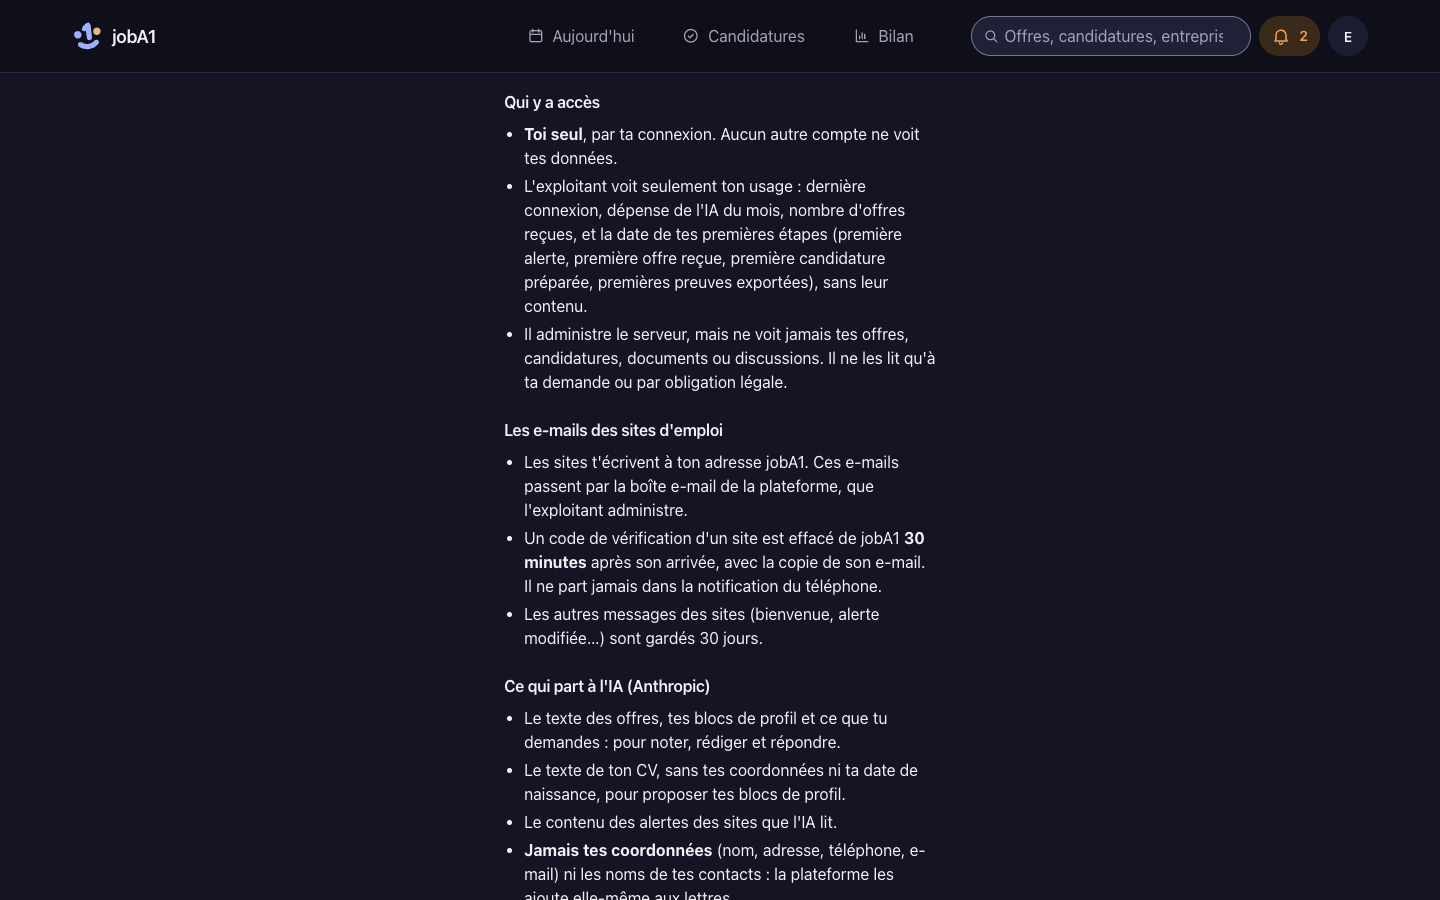
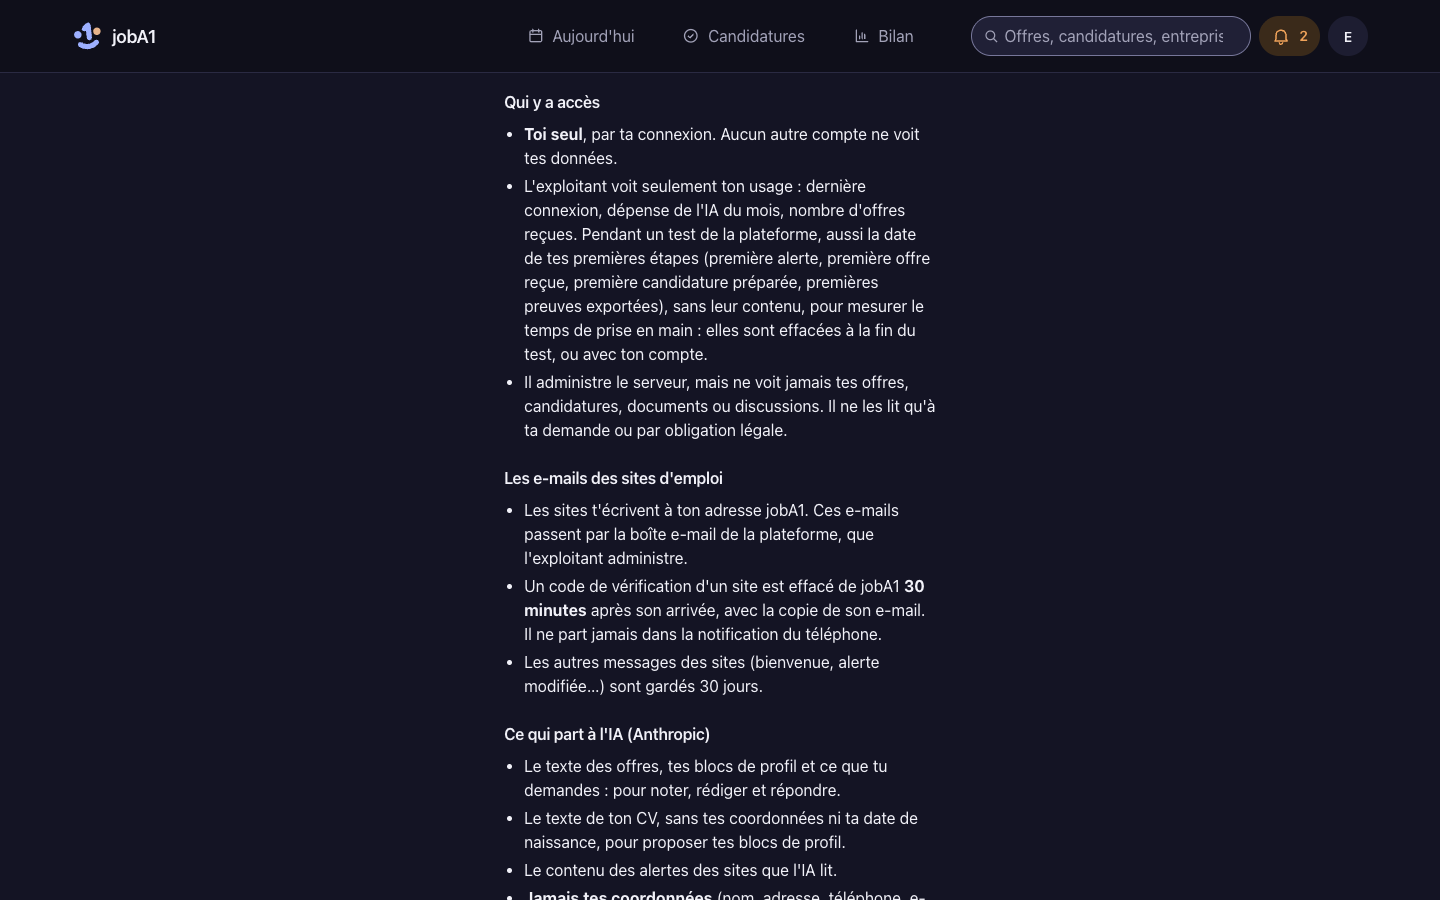
feat(test-utilisateurs): « Terminer le test », tableau aligné, finalité et durée dans « Tes données »

Changed region(s): [[0.3438, 0.2489, 0.6562, 1.0]]

diff --git a/frontend/src/api/schema.d.ts b/frontend/src/api/schema.d.ts
@@ -242,6 +242,26 @@ export interface paths {
         patch?: never;
         trace?: never;
     };
+    "/api/platform/user-test": {
+        parameters: {
+            query?: never;
+            header?: never;
+            path?: never;
+            cookie?: never;
+        };
+        get?: never;
+        /**
+         * Set User Test
+         * @description Le test utilisateurs : ses dates sont gardées jusqu'à sa fin (décision de Kevin).
+         */
+        put: operations["setUserTest"];
+        post?: never;
+        delete?: never;
+        options?: never;
+        head?: never;
+        patch?: never;
+        trace?: never;
+    };
     "/api/platform/accounts/{account_id}/approve": {
         parameters: {
             query?: never;
@@ -6572,6 +6592,11 @@ export interface components {
              * @default []
              */
             milestones: components["schemas"]["MilestonesOut"][];
+            /**
+             * User Test Open
+             * @default true
+             */
+            user_test_open: boolean;
         };
         /**
          * PlatformSettingsIn
@@ -7841,6 +7866,11 @@ export interface components {
             /** Limit Text */
             limit_text: string | null;
         };
+        /** UserTestIn */
+        UserTestIn: {
+            /** Open */
+            open: boolean;
+        };
         /** ValidationError */
         ValidationError: {
             /** Location */
@@ -8473,6 +8503,46 @@ export interface operations {
         requestBody: {
             content: {
                 "application/json": components["schemas"]["PlatformSettingsIn"];
+            };
+        };
+        responses: {
+            /** @description Successful Response */
+            200: {
+                headers: {
+                    [name: string]: unknown;
+                };
+                content: {
+                    "application/json": components["schemas"]["PlatformOut"];
+                };
+            };
+            /** @description Exploitant seul */
+            403: {
+                headers: {
+                    [name: string]: unknown;
+                };
+                content?: never;
+            };
+            /** @description Validation Error */
+            422: {
+                headers: {
+                    [name: string]: unknown;
+                };
+                content: {
+                    "application/json": components["schemas"]["HTTPValidationError"];
+                };
+            };
+        };
+    };
+    setUserTest: {
+        parameters: {
+            query?: never;
+            header?: never;
+            path?: never;
+            cookie?: never;
+        };
+        requestBody: {
+            content: {
+                "application/json": components["schemas"]["UserTestIn"];
             };
         };
         responses: {

diff --git a/frontend/src/components/PlatformPanel.vue b/frontend/src/components/PlatformPanel.vue
@@ -29,6 +29,14 @@ const MILESTONES = [
   { key: "first_prepared", label: "Candidature" },
   { key: "first_export", label: "Preuves" },
 ] as const;
+// Gardées jusqu'à la fin du test (décision de Kevin) : « Terminer le test » efface les dates de
+// tous les comptes et arrête l'enregistrement ; un nouveau test le rouvre.
+const endingTest = ref(false);
+async function setUserTest(open: boolean): Promise<void> {
+  endingTest.value = false;
+  const { data } = await api.PUT("/api/platform/user-test", { body: { open } });
+  if (data) show(data);
+}
 function elapsed(from: string, to: string | null | undefined): string {
   if (!to) return "—";
   const minutes = Math.max(0, Math.round((Date.parse(to) - Date.parse(from)) / 60_000));
@@ -602,12 +610,40 @@ function size(bytes: number | null | undefined): string {
     >
       <SettingRow
         title="Test utilisateurs"
-        :description="platform.milestones?.length
-          ? 'Le temps entre l\'inscription et la première fois de chaque étape.'
-          : 'Aucun compte invité pour l\'instant.'"
+        :description="!platform.user_test_open
+          ? 'Aucun test en cours : rien n\'est enregistré.'
+          : platform.milestones?.length
+            ? 'Le temps entre l\'inscription et la première fois de chaque étape. Gardé jusqu\'à la fin du test.'
+            : 'Aucun compte invité pour l\'instant.'"
+      >
+        <button
+          v-if="platform.user_test_open"
+          type="button"
+          class="secondary small"
+          data-test="user-test-end"
+          @click="endingTest = true"
+        >
+          Terminer le test
+        </button>
+        <button
+          v-else
+          type="button"
+          class="secondary small"
+          data-test="user-test-start"
+          @click="setUserTest(true)"
+        >
+          Commencer un test
+        </button>
+      </SettingRow>
+      <InlineConfirm
+        v-if="endingTest"
+        message="Les dates de tous les comptes sont effacées, et plus rien n'est enregistré."
+        confirm-label="Terminer et effacer"
+        @confirm="setUserTest(false)"
+        @cancel="endingTest = false"
       />
       <table
-        v-if="platform.milestones?.length"
+        v-if="platform.user_test_open && platform.milestones?.length"
         class="runs milestones-table"
         data-test="milestones-table"
       >

diff --git a/frontend/src/components/PlatformPanel.test.ts b/frontend/src/components/PlatformPanel.test.ts
@@ -73,6 +73,7 @@ describe("Plateforme (docs/65 §5)", () => {
     GET.mockResolvedValue({
       data: {
         ...PLATFORM,
+        user_test_open: true,
         milestones: [
           {
             account: 12,
@@ -94,7 +95,17 @@ describe("Plateforme (docs/65 §5)", () => {
     expect(row.findAll("td").map((td) => td.text())).toEqual(["25 min", "6 h", "3 j", "—"]);
     // Aucun nom de compte dans ce tableau.
     for (const account of PLATFORM.accounts) expect(table.text()).not.toContain(account.username);
-    GET.mockResolvedValue({ data: { ...PLATFORM, milestones: [] } });
+    // Gardées jusqu'à la fin du test : « Terminer le test » demande confirmation, puis efface tout.
+    PUT.mockResolvedValue({ data: { ...PLATFORM, user_test_open: false, milestones: [] } });
+    await wrapper.find("[data-test=user-test-end]").trigger("click");
+    expect(PUT).not.toHaveBeenCalled();
+    await wrapper.find("[data-test=platform-milestones] [data-test=inline-confirm-yes]").trigger("click");
+    await flushPromises();
+    expect(PUT).toHaveBeenCalledWith("/api/platform/user-test", { body: { open: false } });
+    expect(wrapper.find("[data-test=milestones-table]").exists()).toBe(false);
+    expect(wrapper.find("[data-test=platform-milestones]").text()).toContain("Aucun test en cours");
+    expect(wrapper.find("[data-test=user-test-start]").exists()).toBe(true);
+    GET.mockResolvedValue({ data: { ...PLATFORM, user_test_open: true, milestones: [] } });
     const empty = mount(PlatformPanel);
     await flushPromises();
     expect(empty.find("[data-test=platform-milestones]").text()).toContain("Aucun compte invité");

diff --git a/frontend/src/style.css b/frontend/src/style.css
@@ -4222,5 +4222,14 @@ html.search-open { overflow: hidden; }
 .milestones-since { display: block; margin-top: var(--space-1); color: var(--muted); font-weight: var(--weight-regular); font-size: var(--font-caption); }
 .milestones-table td { text-align: right; font-variant-numeric: tabular-nums; white-space: nowrap; }
 .milestones-table thead th:not(:first-child) { text-align: right; }
-@media (max-width: 820px) { .runs.milestones-table { display: table; overflow: visible; } }
-@media (max-width: 599px) { .milestones-table th, .milestones-table td { padding: var(--space-3) var(--space-2); } }
+/* Le tableau suit les bords du texte de la carte (le padding des lignes) ; pas de filet sous la
+   dernière ligne. */
+.milestones-table :is(th, td):first-child { padding-left: var(--space-6); }
+.milestones-table :is(th, td):last-child { padding-right: var(--space-6); }
+.milestones-table tbody tr:last-child > :is(th, td) { border-bottom: none; }
+@media (max-width: 820px) {
+  .runs.milestones-table { display: table; overflow: visible; }
+  .milestones-table :is(th, td):first-child { padding-left: var(--space-4); }
+  .milestones-table :is(th, td):last-child { padding-right: var(--space-4); }
+}
+@media (max-width: 599px) { .milestones-table :is(th, td):not(:first-child):not(:last-child) { padding-inline: var(--space-2); } }

diff --git a/frontend/src/views/PrivacyView.vue b/frontend/src/views/PrivacyView.vue
@@ -53,7 +53,7 @@ onMounted(async () => {
       <ul>
         <li><strong>Toi seul</strong>, par ta connexion. Aucun autre compte ne voit tes données.</li>
         <li>
-          L'exploitant voit seulement ton usage : dernière connexion, dépense de l'IA du mois, nombre d'offres reçues, et la date de tes premières étapes (première alerte, première offre reçue, première candidature préparée, premières preuves exportées), sans leur contenu.
+          L'exploitant voit seulement ton usage : dernière connexion, dépense de l'IA du mois, nombre d'offres reçues. Pendant un test de la plateforme, aussi la date de tes premières étapes (première alerte, première offre reçue, première candidature préparée, premières preuves exportées), sans leur contenu, pour mesurer le temps de prise en main : elles sont effacées à la fin du test, ou avec ton compte.
         </li>
         <li>
           Il administre le serveur, mais ne voit jamais tes offres, candidatures, documents ou discussions. Il ne les lit qu'à ta demande ou par obligation légale.

diff --git a/changelog.d/etapes-datees.md b/changelog.d/etapes-datees.md
@@ -1,1 +1,1 @@
-Test utilisateurs : la date de la première alerte, de la première offre reçue, de la première candidature préparée et des premières preuves exportées, par compte, sans contenu ; un tableau pour l'exploitant, mentionné dans « Tes données »
+Test utilisateurs : la date de la première alerte, de la première offre reçue, de la première candidature préparée et des premières preuves exportées, par compte, sans contenu, gardée jusqu'à la fin du test ; un tableau pour l'exploitant, mentionné dans « Tes données »
